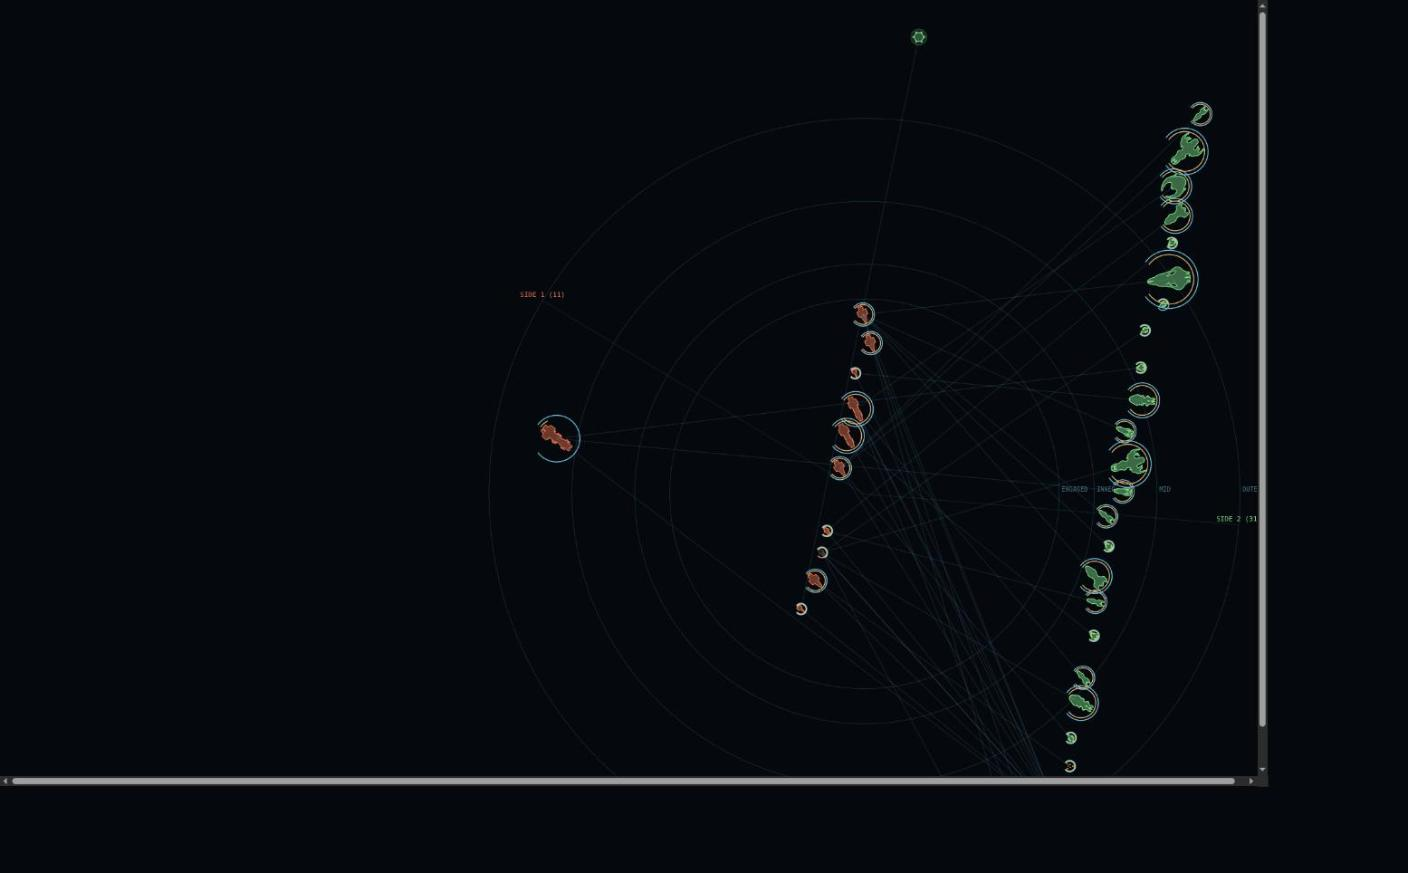
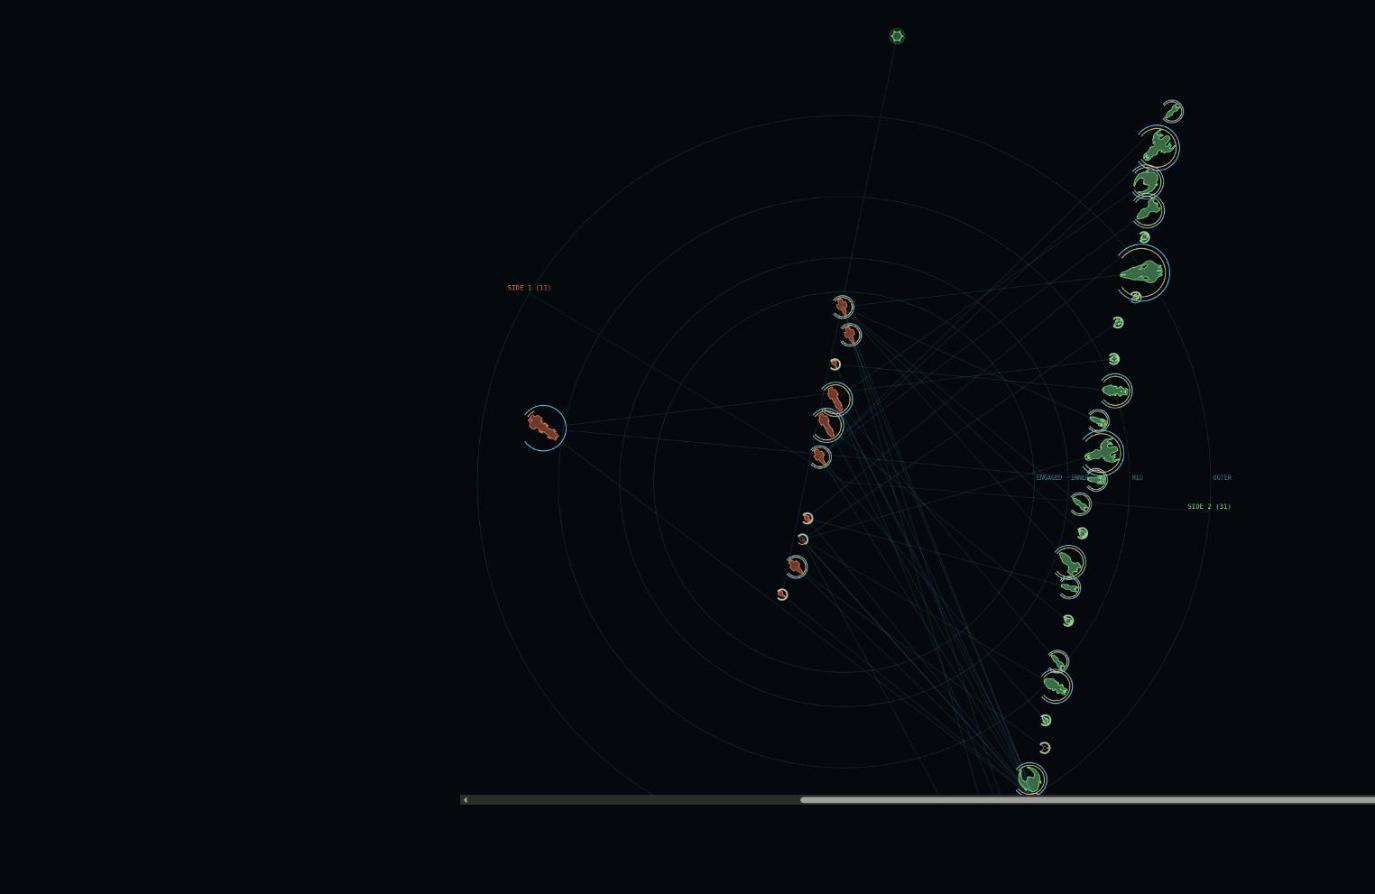
fix(holotable): stop the outer ring from clipping on small battles
fitView only ever saw ship-position bounds, but the rings are sized from
measured zone radii, which can exceed those bounds — Kitalpha's outer ring
(0.894) is 42% larger than the ships' own vertical half-extent (0.628), so
rings, spokes, and 3 of 4 side labels ran off-canvas and the page grew
scrollbars. drawFrame now unions the ship bounds with centre +/- the outer
ring radius (tableBounds, three new unit tests) before fitting the view.

Also fixes the page template's own contribution to the scrollbars
(#table's width:100vw counts the scrollbar itself) and regenerates both
committed battle pages through the actual generator rather than by hand.

Findings doc corrected: the original "OUTER_RING_MARGIN does not clip"
claim held only for Node Beta, which is the battle it was measured on.
Screenshots replaced with post-fix captures.

diff --git a/kb/battles/holotable.js b/kb/battles/holotable.js
@@ -524,11 +524,34 @@ function pickFrame(replay, want) {
 // TABLE_MARGIN keeps the outermost ring and its labels off the canvas edge.
 const TABLE_MARGIN = 60;
 
+// tableBounds expands a battle's ship-position bounds to also encompass the
+// outermost zone ring, so the ring — and the side spokes and labels that
+// extend to its edge — never draw past what fitView fits on canvas.
+//
+// fitView only ever sees the bounds it's handed; by default that was
+// replay.bounds, which covers where the ships actually are. Ring radius is
+// a separate measurement (zoneRings, from mean distance per zone) and can
+// exceed the ships' own spread on a small battle: Kitalpha's outer ring
+// radius (0.894) is 42% bigger than the ships' vertical half-extent (0.628),
+// so with ship-only bounds the ring — and everything anchored to its edge —
+// clips off the fitted view. The union with the ship bounds is deliberate:
+// on a battle where the ships spread wider than the rings (Node Beta), the
+// rings must never shrink the fitted view below what the ships need.
+function tableBounds(bounds, centre, outerR) {
+  return {
+    x_min: Math.min(bounds.x_min, centre.x - outerR),
+    x_max: Math.max(bounds.x_max, centre.x + outerR),
+    y_min: Math.min(bounds.y_min, centre.y - outerR),
+    y_max: Math.max(bounds.y_max, centre.y + outerR),
+  };
+}
+
 // drawFrame renders one tick of the battle onto ctx.
 function drawFrame(ctx, replay, hulls, frame, width, height) {
   ctx.save();
-  const view = fitView(replay.bounds, width, height, TABLE_MARGIN);
   const rings = zoneRings(replay.frames, replay.centre, {});
+  const bounds = tableBounds(replay.bounds, replay.centre, outerRadius(rings));
+  const view = fitView(bounds, width, height, TABLE_MARGIN);
 
   ctx.fillStyle = THEME.bg;
   ctx.fillRect(0, 0, width, height);
@@ -624,6 +647,6 @@ if (typeof module !== 'undefined' && module.exports) {
     spokeEnd, sideColour, outerRadius, drawGround, THEME,
     HULL_PX_PER_SCALE, OUTER_RING_MARGIN, CANONICAL_ZONE_ORDER,
     hullTransform, drawShip, drawStationGlyph, drawMissingGlyph, drawStateArcs,
-    busiestTick, pickFrame, drawFrame,
+    busiestTick, pickFrame, drawFrame, tableBounds,
   };
 }

diff --git a/tests/js/holotable.test.js b/tests/js/holotable.test.js
@@ -309,3 +309,36 @@ test('pickFrame returns the requested tick, else the busiest', () => {
   assert.strictEqual(ht.pickFrame(replay, null).tick, 2, 'no request means the busiest frame');
   assert.strictEqual(ht.pickFrame(replay, 999).tick, 2, 'an out-of-range tick falls back');
 });
+
+test('tableBounds expands ship-position bounds to encompass the outer zone ring', () => {
+  // Mirrors Kitalpha: a four-side skirmish with few ships per zone can
+  // measure an outer ring radius bigger than the ships' own spread. If
+  // fitView only sees the ship bounds, the ring — and the side spokes and
+  // labels that extend to it — draw off-canvas.
+  const bounds = {x_min: -0.3, x_max: 0.3, y_min: -0.4, y_max: 0.4};
+  const centre = {x: 0, y: 0};
+  const expanded = ht.tableBounds(bounds, centre, 0.9);
+  assert.strictEqual(expanded.x_min, -0.9);
+  assert.strictEqual(expanded.x_max, 0.9);
+  assert.strictEqual(expanded.y_min, -0.9);
+  assert.strictEqual(expanded.y_max, 0.9);
+});
+
+test('tableBounds leaves ship bounds untouched when they already exceed the ring', () => {
+  // Node Beta's shape: the ships themselves spread wider than the rings.
+  // The rings must never shrink the fitted view below what the ships need.
+  const bounds = {x_min: -2, x_max: 2, y_min: -1.5, y_max: 1.5};
+  const centre = {x: 0, y: 0};
+  const expanded = ht.tableBounds(bounds, centre, 0.5);
+  assert.deepStrictEqual(expanded, bounds);
+});
+
+test('tableBounds is centred on a non-origin centre', () => {
+  const bounds = {x_min: 4, x_max: 6, y_min: 9, y_max: 11};
+  const centre = {x: 5, y: 10};
+  const expanded = ht.tableBounds(bounds, centre, 3);
+  assert.strictEqual(expanded.x_min, 2);
+  assert.strictEqual(expanded.x_max, 8);
+  assert.strictEqual(expanded.y_min, 7);
+  assert.strictEqual(expanded.y_max, 13);
+});

diff --git a/kb/battles/a2619bbe328676445828b4e1007fe9aa.html b/kb/battles/a2619bbe328676445828b4e1007fe9aa.html
@@ -9,11 +9,12 @@
   body {
     margin: 0; background: #05080d; color: #9fd4e8;
     font: 13px/1.5 ui-monospace, SFMono-Regular, Menlo, monospace;
+    overflow: hidden;
   }
   header { padding: 10px 16px; border-bottom: 1px solid #123; }
   h1 { margin: 0; font-size: 15px; font-weight: 600; letter-spacing: .04em; }
   .meta { color: #4d7a8c; }
-  #table { display: block; width: 100vw; height: calc(100vh - 46px); }
+  #table { display: block; width: 100%; height: calc(100vh - 46px); }
   #status { padding: 16px; color: #c86; }
 </style>
 </head>

diff --git a/kb/battles/b131fd5aae68420107dd20e93d15d3ba.html b/kb/battles/b131fd5aae68420107dd20e93d15d3ba.html
@@ -9,11 +9,12 @@
   body {
     margin: 0; background: #05080d; color: #9fd4e8;
     font: 13px/1.5 ui-monospace, SFMono-Regular, Menlo, monospace;
+    overflow: hidden;
   }
   header { padding: 10px 16px; border-bottom: 1px solid #123; }
   h1 { margin: 0; font-size: 15px; font-weight: 600; letter-spacing: .04em; }
   .meta { color: #4d7a8c; }
-  #table { display: block; width: 100vw; height: calc(100vh - 46px); }
+  #table { display: block; width: 100%; height: calc(100vh - 46px); }
   #status { padding: 16px; color: #c86; }
 </style>
 </head>

diff --git a/cmd/generate-battle-holotable/page.go b/cmd/generate-battle-holotable/page.go
@@ -20,11 +20,12 @@ const pageTemplate = `<!DOCTYPE html>
   body {
     margin: 0; background: #05080d; color: #9fd4e8;
     font: 13px/1.5 ui-monospace, SFMono-Regular, Menlo, monospace;
+    overflow: hidden;
   }
   header { padding: 10px 16px; border-bottom: 1px solid #123; }
   h1 { margin: 0; font-size: 15px; font-weight: 600; letter-spacing: .04em; }
   .meta { color: #4d7a8c; }
-  #table { display: block; width: 100vw; height: calc(100vh - 46px); }
+  #table { display: block; width: 100%; height: calc(100vh - 46px); }
   #status { padding: 16px; color: #c86; }
 </style>
 </head>

diff --git a/docs/holotable-p1a-findings.md b/docs/holotable-p1a-findings.md
@@ -12,9 +12,11 @@ detail). Enough clean captures came through to keep in the repo:
 
 - `img/holotable-p1a/node-beta-full.jpg` — Node Beta, full table, tick
   1615393 (the busiest frame). Both sides, the station, the outer chevrons.
-- `img/holotable-p1a/node-beta-hull-scale-2x.jpg` — Node Beta at 2×
-  render scale, left/right split. Shows the scale-4/5 hulls next to the
-  scale-1 majority (constants judgement below).
+- `img/holotable-p1a/node-beta-hull-scale-2x.jpg` — Node Beta rendered at
+  2× canvas resolution (scrolled right, hence the visible scrollbar — a
+  debugging aid for this capture, not a rendering defect). Shows the
+  scale-4/5 hulls next to the scale-1 majority (constants judgement
+  below).
 - `img/holotable-p1a/node-beta-missing-art-and-unknown-hull.jpg` — closeup
   of two `anamnesis`/`silent_tide` dashed chevrons and, just below the
   large green hull, the one hull-0-alive ship as a small dot (check 7).
@@ -165,11 +167,35 @@ disagreement — is not excluded by what's rendered here.
   met), but worth a P1b look: either a slightly larger minimum radius for
   the state-arc bands specifically, or accept it as a "hover for detail"
   problem once P1b adds interaction.
-- `OUTER_RING_MARGIN` (currently 1.12): does not clip. On Node Beta the
+- `OUTER_RING_MARGIN` (currently 1.12): does not clip *on Node Beta* — the
   outermost ships (the station at the top, the missing-art chevrons in the
   bottom band) sit comfortably inside the canvas with room for their
-  labels; nothing touches the frame edge. `TABLE_MARGIN=60` (Task 8's own
-  constant, layered on top) does the same job for the canvas edge itself.
+  labels; nothing touches the frame edge, and `TABLE_MARGIN=60` (Task 8's
+  own constant, layered on top) does the same job for the canvas edge
+  itself. **This is a corrected claim** — the first draft of this doc
+  stated it as general, but Kitalpha's first render clipped: rings ran off
+  the canvas top and bottom, the page grew scrollbars, and 3 of the 4 side
+  labels (each anchored at its spoke's outer end) were pushed off-screen
+  entirely. The cause was not `OUTER_RING_MARGIN` itself — it was that
+  `fitView` was only ever handed the ships' own position bounds
+  (`replay.bounds`), and Kitalpha's outer ring radius (0.894) is 42%
+  larger than the ships' vertical half-extent (0.628), so however
+  `OUTER_RING_MARGIN` scaled it, no view fit to ship positions alone could
+  have contained it. Fixed in `drawFrame` by computing the rings first and
+  unioning `centre ± outerRadius` into the fitted bounds
+  (`tableBounds`, covered by three new unit tests) before calling
+  `fitView` — verified on the re-render: all four Kitalpha side labels are
+  now on-canvas, no scrollbars, and the outer ring's projected edge lands
+  exactly on `TABLE_MARGIN` from the canvas edge (60px, computed
+  numerically, not just eyeballed). See
+  `img/holotable-p1a/kitalpha-full.jpg` for the corrected render.
+  (Separately, the page-level scrollbars in the original Kitalpha capture
+  were also fixed: `#table`'s CSS width was `100vw`, which counts the
+  scrollbar's own width and can trigger a second, horizontal one once a
+  vertical scrollbar appears from any cause — changed to `width: 100%`
+  plus `overflow: hidden` on `body` in `cmd/generate-battle-holotable/page.go`,
+  and both committed battle pages regenerated through the actual
+  generator, not hand-edited.)
 - Side palette legibility: yes, distinguishable. Node Beta's two sides
   (cyan-ish red `#e8734f` vs the base `#4fd0e8`... actually rendered as a
   clear red/orange vs. green split — see screenshot) read instantly apart
